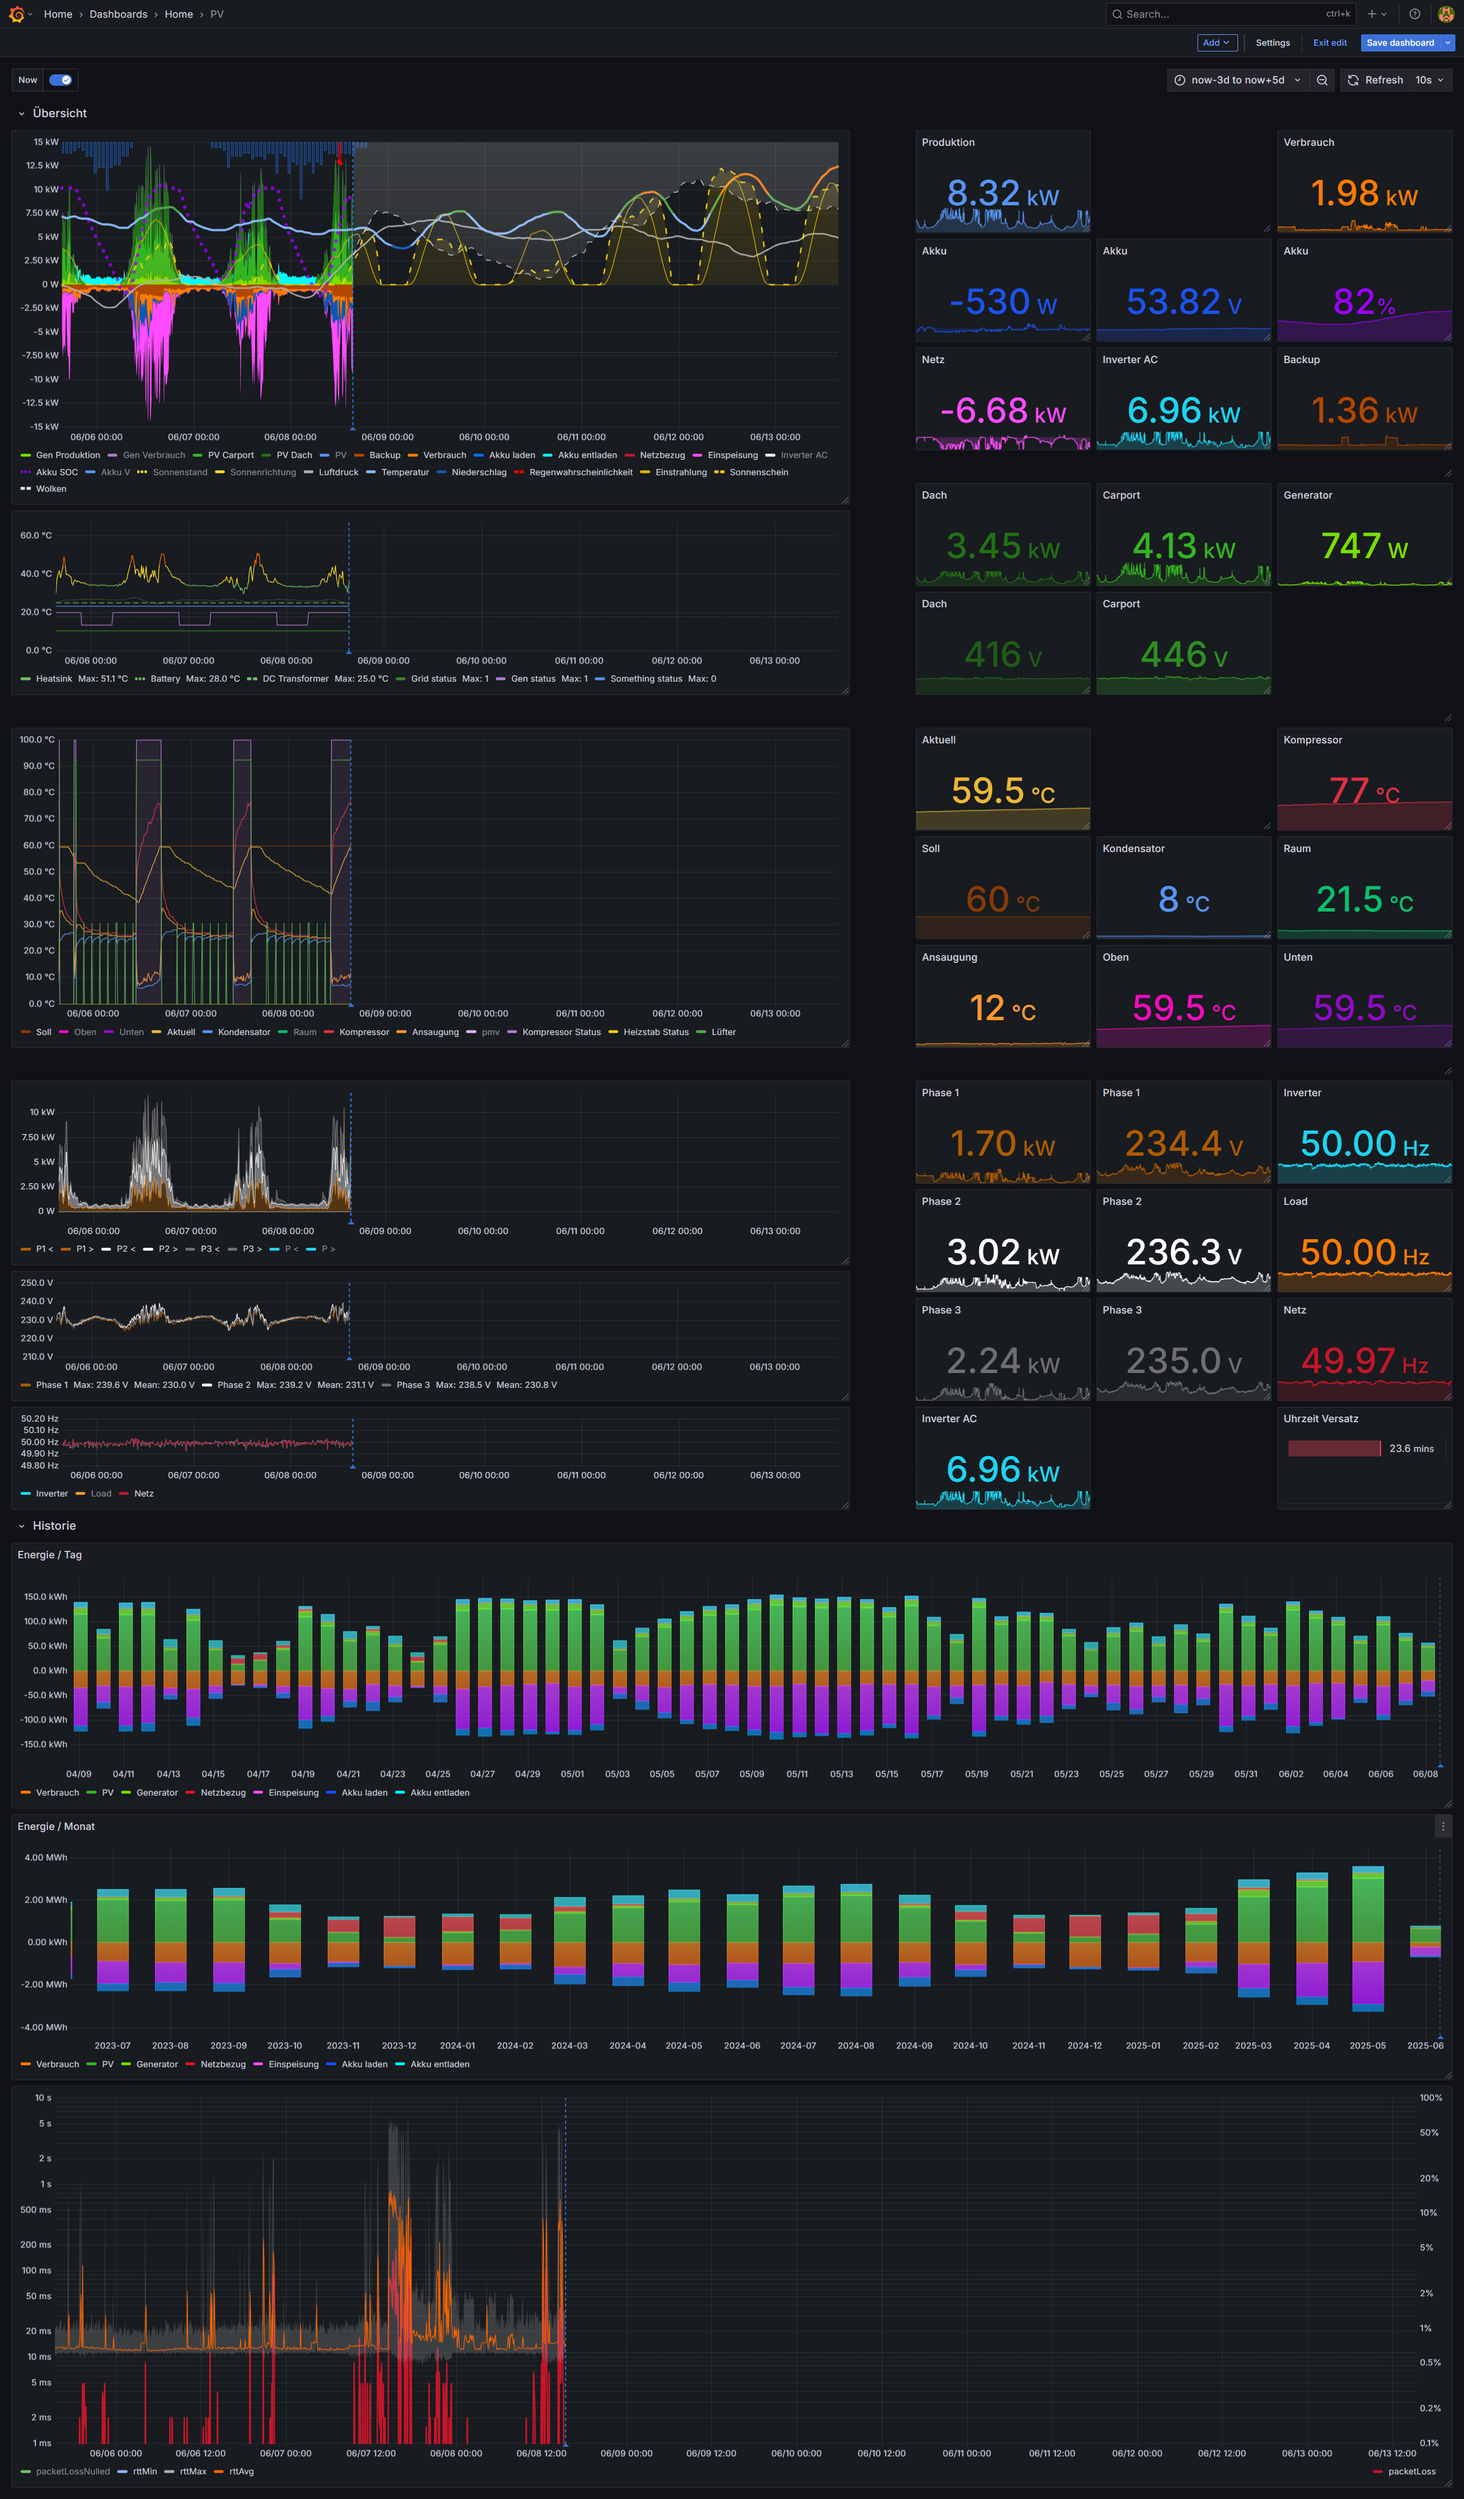
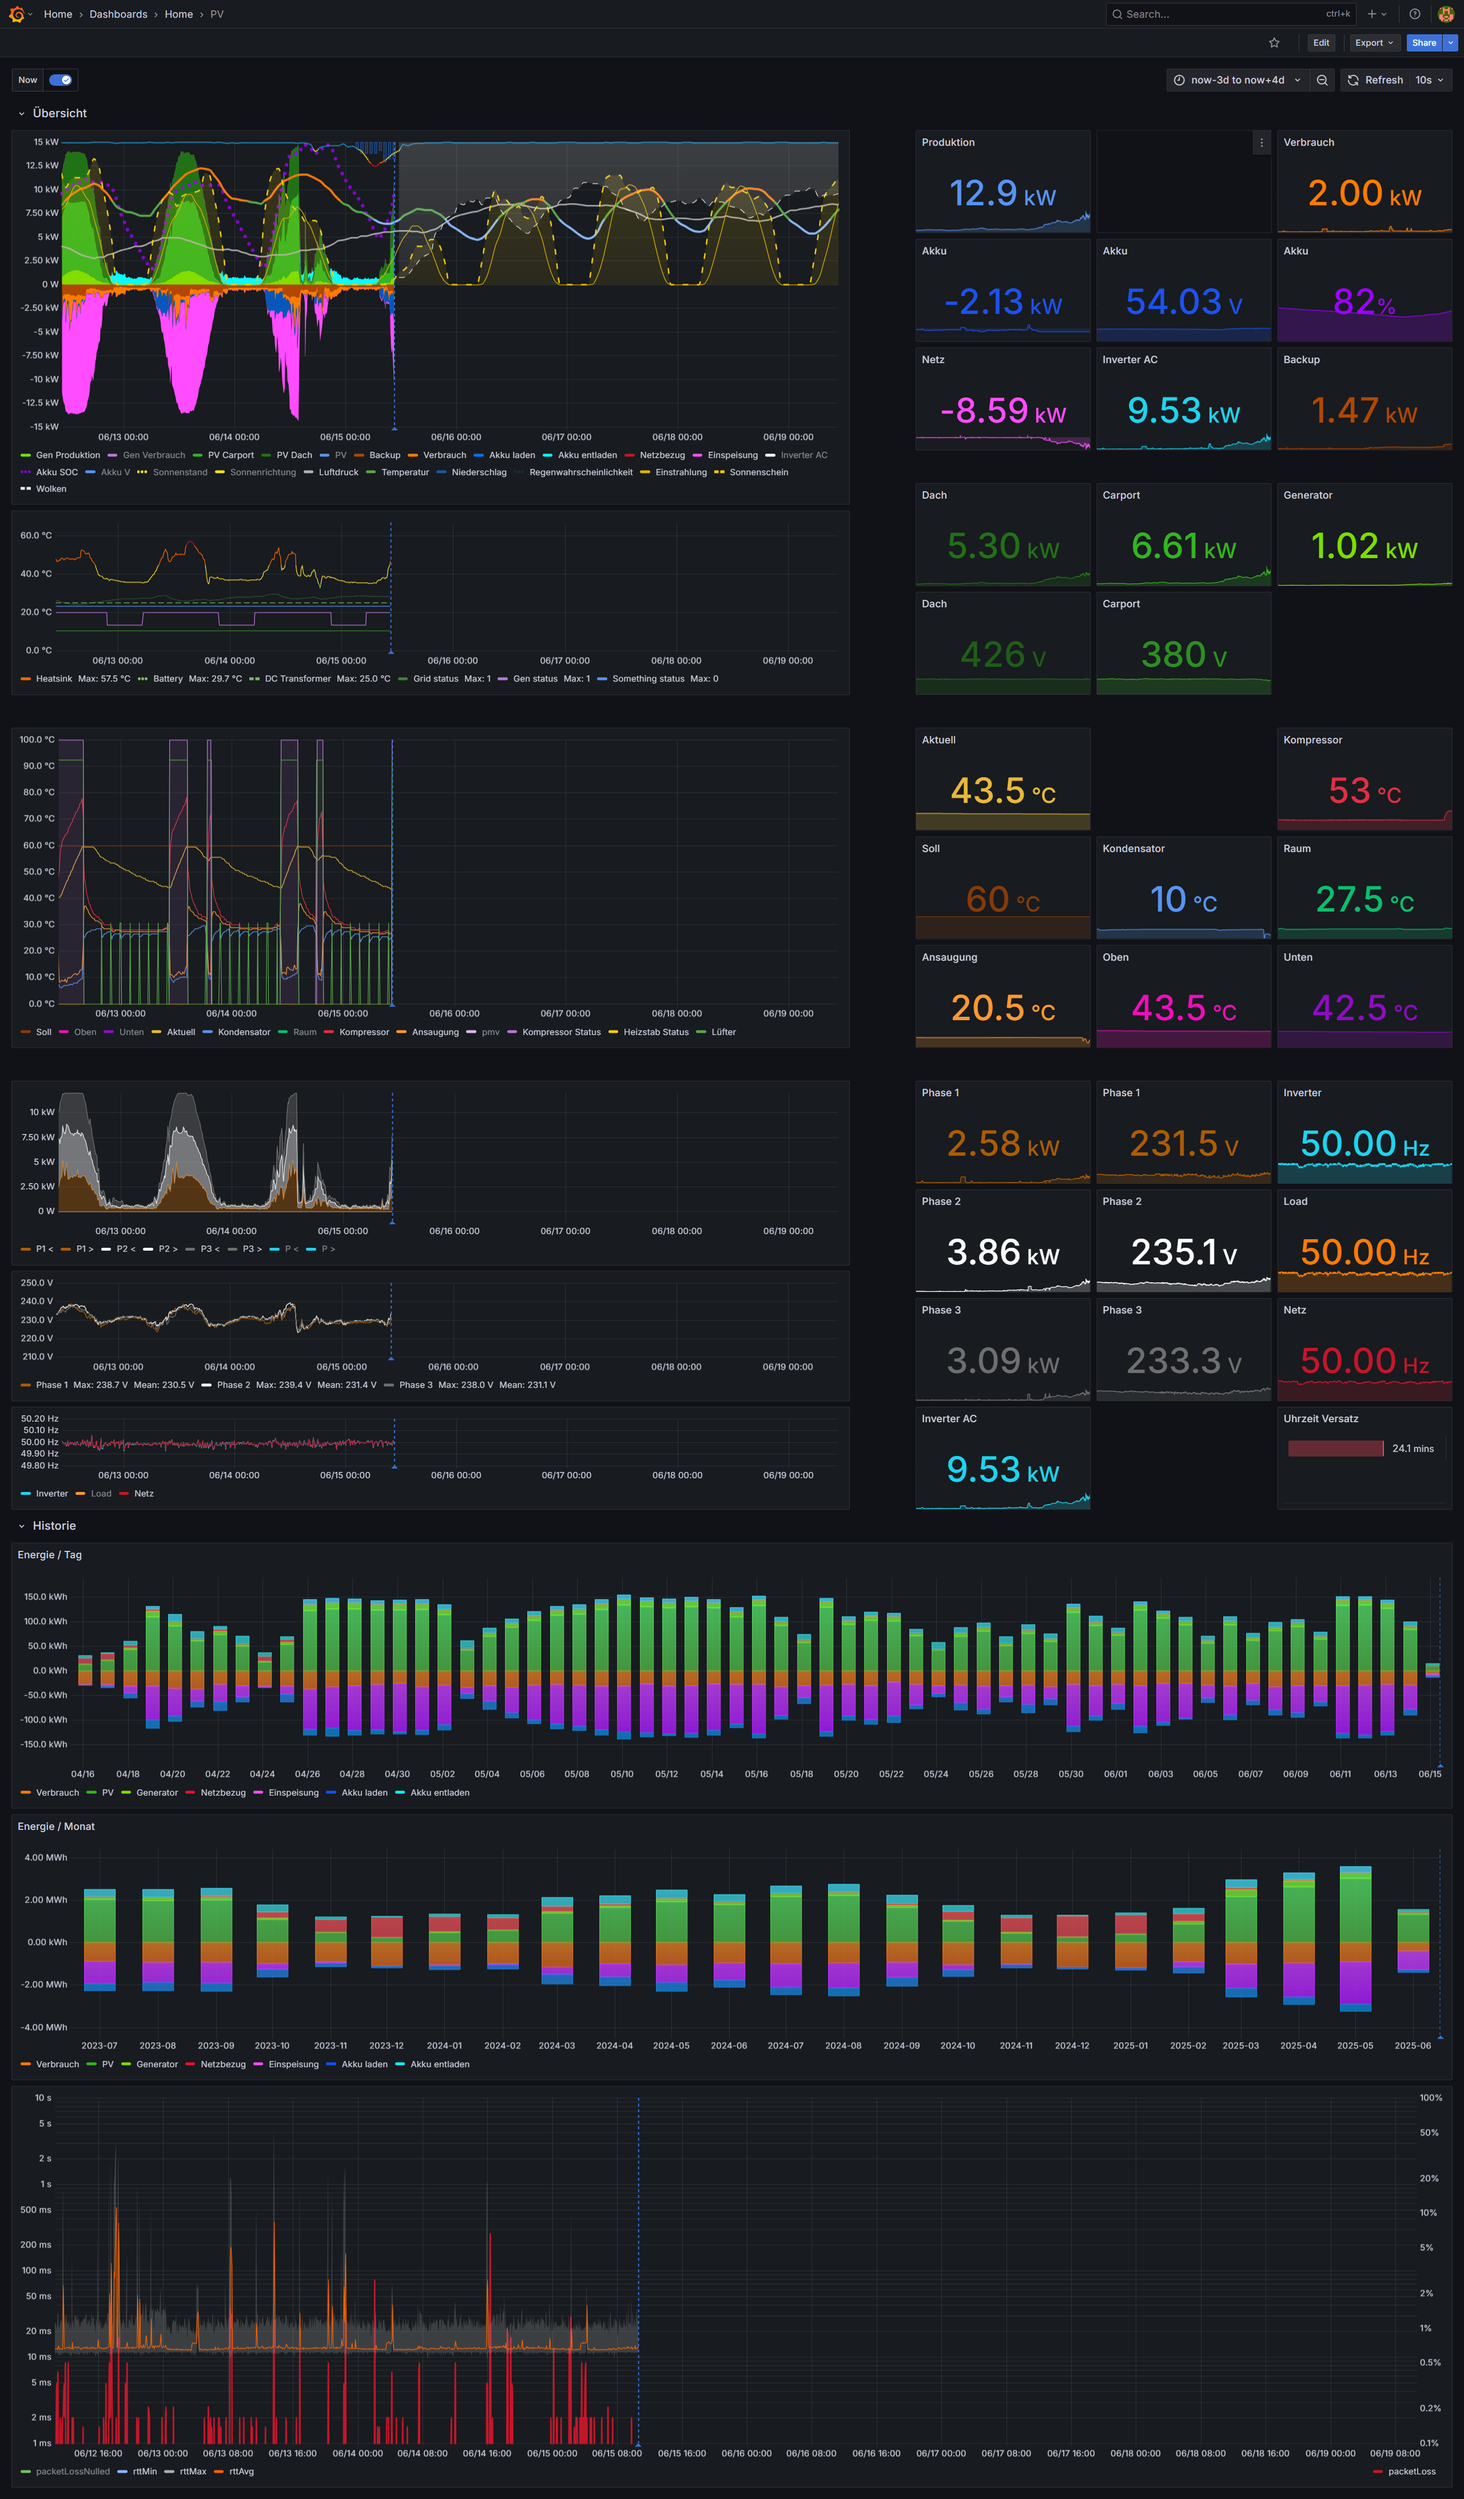
DWD Forecast update via MOSMIX L and S

diff --git a/dwd/getForecast.php b/dwd/getForecast.php
@@ -19,19 +19,23 @@ $zipfile = 'MOSMIX_S_LATEST_240.kmz';
 $url = 'https://opendata.dwd.de/weather/local_forecasts/mos/MOSMIX_S/all_stations/kml/' . $zipfile;
 */
 
-$sqlFields = [
-	'PPPP', 'E_PPP', 'TX', 'TTT', 'E_TTT', 'Td', 'E_Td', 'TN', 'TG', 'TM', 'T5cm', 'DD', 'E_DD', 'FF', 'E_FF', 'FX1', 'FX3',
-	'FX625', 'FX640', 'FX655', 'FXh', 'FXh25', 'FXh40', 'FXh55', 'N', 'Neff', 'Nlm', 'Nh', 'Nm', 'Nl', 'N05', 'VV', 'VV10',
-	'wwM', 'wwM6', 'wwMh', 'wwMd', 'ww', 'ww3', 'W1W2', 'wwP', 'wwP6', 'wwPh', 'wwPd', 'wwZ', 'wwZ6', 'wwZh', 'wwD', 'wwD6',
-	'wwDh', 'wwC', 'wwC6', 'wwCh', 'wwT', 'wwT6', 'wwTh', 'wwTd', 'wwS', 'wwS6', 'wwSh', 'wwL', 'wwL6', 'wwLh', 'wwF',
-	'wwF6', 'wwFh', 'DRR1', 'RR6c', 'RRhc', 'RRdc', 'RR1c', 'RRS1c', 'RRL1c', 'RR3c', 'RRS3c', 'R101', 'R102', 'R103',
-	'R105', 'R107', 'R110', 'R120', 'R130', 'R150', 'RR1o1', 'RR1w1', 'RR1u1', 'R600', 'R602', 'R610', 'R650', 'Rh00',
-	'Rh02', 'Rh10', 'Rh50', 'Rd00', 'Rd02', 'Rd10', 'Rd50', 'SunD', 'RSunD', 'PSd00', 'PSd30', 'PSd60', 'RRad1', 'Rad1h',
-	'SunD1', 'SunD3', 'PEvap', 'WPc11', 'WPc31', 'WPc61', 'WPch1', 'WPcd1'
+$availableFields = [
+	'PPPP',  'E_PPP',  'TX',    'TTT',   'E_TTT',  'Td',    'E_Td',  'TN',    'TG',    'TM',
+	'T5cm',  'DD',     'E_DD',  'FF',    'E_FF',   'FX1',   'FX3',   'FX625', 'FX640', 'FX655',
+	'FXh',   'FXh25',  'FXh40', 'FXh55', 'N',      'Neff',  'Nlm',   'Nh',    'Nm',    'Nl',
+	'N05',   'VV',     'VV10',  'wwM',   'wwM6',   'wwMh',  'wwMd',  'ww',    'ww3',   'W1W2',
+	'wwP',   'wwP6',   'wwPh',  'wwPd',  'wwZ',    'wwZ6',  'wwZh',  'wwD',   'wwD6',  'wwDh',
+	'wwC',   'wwC6',   'wwCh',  'wwT',   'wwT6',   'wwTh',  'wwTd',  'wwS',   'wwS6',  'wwSh',
+	'wwL',   'wwL6',   'wwLh',  'wwF',   'wwF6',   'wwFh',  'DRR1',  'RR6c',  'RRhc',  'RRdc',
+	'RR1c',  'RRS1c',  'RRL1c', 'RR3c',  'RRS3c',  'R101',  'R102',  'R103',  'R105',  'R107',
+	'R110',  'R120',   'R130',  'R150',  'RR1o1',  'RR1w1', 'RR1u1', 'R600',  'R602',  'R610',
+	'R650',  'Rh00',   'Rh02',  'Rh10',  'Rh50',   'Rd00',  'Rd02',  'Rd10',  'Rd50',  'SunD',
+	'RSunD', 'PSd00',  'PSd30', 'PSd60', 'RRad1',  'Rad1h', 'SunD1', 'SunD3', 'PEvap', 'WPc11',
+	'WPc31', 'WPc61',  'WPch1', 'WPcd1'
 ];
 
 function debug( $str ) {
-	echo "$str\n";
+	//echo "$str\n";
 }
 
 $cred = explode( "\n", file_get_contents( realpath(dirname(__FILE__)) . '/../db.cred' ) );
@@ -40,15 +44,18 @@ if ($mysqli->connect_errno) {
     die( "Failed to connect to MySQL: " . $mysqli->connect_error );
 }
 
-$sqlInsert = 'INSERT INTO
-	`log`.`weather`
-	( `timestamp`, `datetime`, `location`, `' . implode( '`, `', $sqlFields ). '` ) VALUES
-	( ?, FROM_UNIXTIME(?), ?, ' . implode(',',array_fill( 0, count($sqlFields), '? ') ) . ')
-	ON DUPLICATE KEY UPDATE `' . implode( '` = ?, `', $sqlFields ). '` = ?;';
-$insertStmt = $mysqli->prepare( $sqlInsert );
 
 $zipfile = '/tmp/dwdforecast.tmp.zip';
 $urls = [];
+/*
+$urls[] = "https://opendata.dwd.de/weather/local_forecasts/mos/MOSMIX_L/single_stations/N8381/kml/MOSMIX_L_2025060709_N8381.kmz";
+$urls[] = "https://opendata.dwd.de/weather/local_forecasts/mos/MOSMIX_L/single_stations/N8381/kml/MOSMIX_L_2025060715_N8381.kmz";
+$urls[] = "https://opendata.dwd.de/weather/local_forecasts/mos/MOSMIX_L/single_stations/N8381/kml/MOSMIX_L_2025060721_N8381.kmz";
+$urls[] = "https://opendata.dwd.de/weather/local_forecasts/mos/MOSMIX_L/single_stations/N8381/kml/MOSMIX_L_2025060803_N8381.kmz";
+$urls[] = "https://opendata.dwd.de/weather/local_forecasts/mos/MOSMIX_L/single_stations/N8381/kml/MOSMIX_L_2025060809_N8381.kmz";
+$urls[] = "https://opendata.dwd.de/weather/local_forecasts/mos/MOSMIX_L/single_stations/N8381/kml/MOSMIX_L_2025060815_N8381.kmz";
+$urls[] = "https://opendata.dwd.de/weather/local_forecasts/mos/MOSMIX_L/single_stations/N8381/kml/MOSMIX_L_2025060821_N8381.kmz";
+*/
 foreach ( $storeStations as $station ) {
 	// updates every 6 hours
 	$urls[] = "https://opendata.dwd.de/weather/local_forecasts/mos/MOSMIX_L/single_stations/$station/kml/MOSMIX_L_LATEST_$station.kmz";
@@ -82,9 +89,11 @@ foreach ( $urls as $url ) {
 				$_ts = strtotime( trim($timesteps[$i]) );
 				$ts[] = $_ts;
 				$row = [ 'timestamp' => $_ts ];
+				/*
 				for ( $j = 0; $j < count( $sqlFields ); $j++ ) {
 					$row[$sqlFields[$j]] = NULL;
 				}
+				*/
 				$rows[] = $row;
 			}
 			$placemarks = $mosmix->children('kml', true)->Document->Placemark;
@@ -97,16 +106,46 @@ foreach ( $urls as $url ) {
 				}
 				$sqlData = [];
 				$forecasts = $p->ExtendedData->children('dwd',true)->Forecast;
+
+				// aggregate existing properties in data first
+				$sqlFields = [];
+				for ( $fi = 0, $flen = count( $forecasts ); $fi < $flen; $fi++ ) {
+					$f = $forecasts[$fi];
+					$field = trim( $f['elementName'] );
+					if ( in_array( $field, $availableFields ) ) {
+						$sqlFields[] = $field;
+					}
+				}
+
+				$sqlInsert = 'INSERT INTO
+					`log`.`weather`
+					( `timestamp`, `datetime`, `location`, `' . implode( '`, `', $sqlFields ). '` ) VALUES
+					( ?, FROM_UNIXTIME(?), ?, ' . implode(',',array_fill( 0, count($sqlFields), '? ') ) . ')
+					ON DUPLICATE KEY UPDATE `' . implode( '` = ?, `', $sqlFields ). '` = ?;';
+				$insertStmt = $mysqli->prepare( $sqlInsert );
+
+				//echo "$sqlInsert\n\n";
+
+				/*
+				for ( $ri = 0; $ri < count( $rows ); $ri++ ) {
+					for ( $j = 0; $j < count( $sqlFields ); $j++ ) {
+						$rows[$ri][$sqlFields[$j]] = NULL;
+					}
+				}
+				*/
+
 				for ( $fi = 0, $flen = count( $forecasts ); $fi < $flen; $fi++ ) {
 					$f = $forecasts[$fi];
 					$field = trim( $f['elementName'] );
 					$values = preg_split( '/\s+/', trim($f->value) );
 					for ( $vi = 0, $vlen = count( $values ); $vi < $vlen; $vi++ ) {
-						if ( array_key_exists( $field, $rows[$vi] ) ) {
+						//if ( array_key_exists( $field, $rows[$vi] ) ) {
 							if ( $values[$vi] !== '-' ) {
 								$rows[$vi][$field] = (float)$values[$vi];
+							} else {
+								$rows[$vi][$field] = NULL;
 							}
-						}
+						//}
 					}
 				}
 				// store in db
